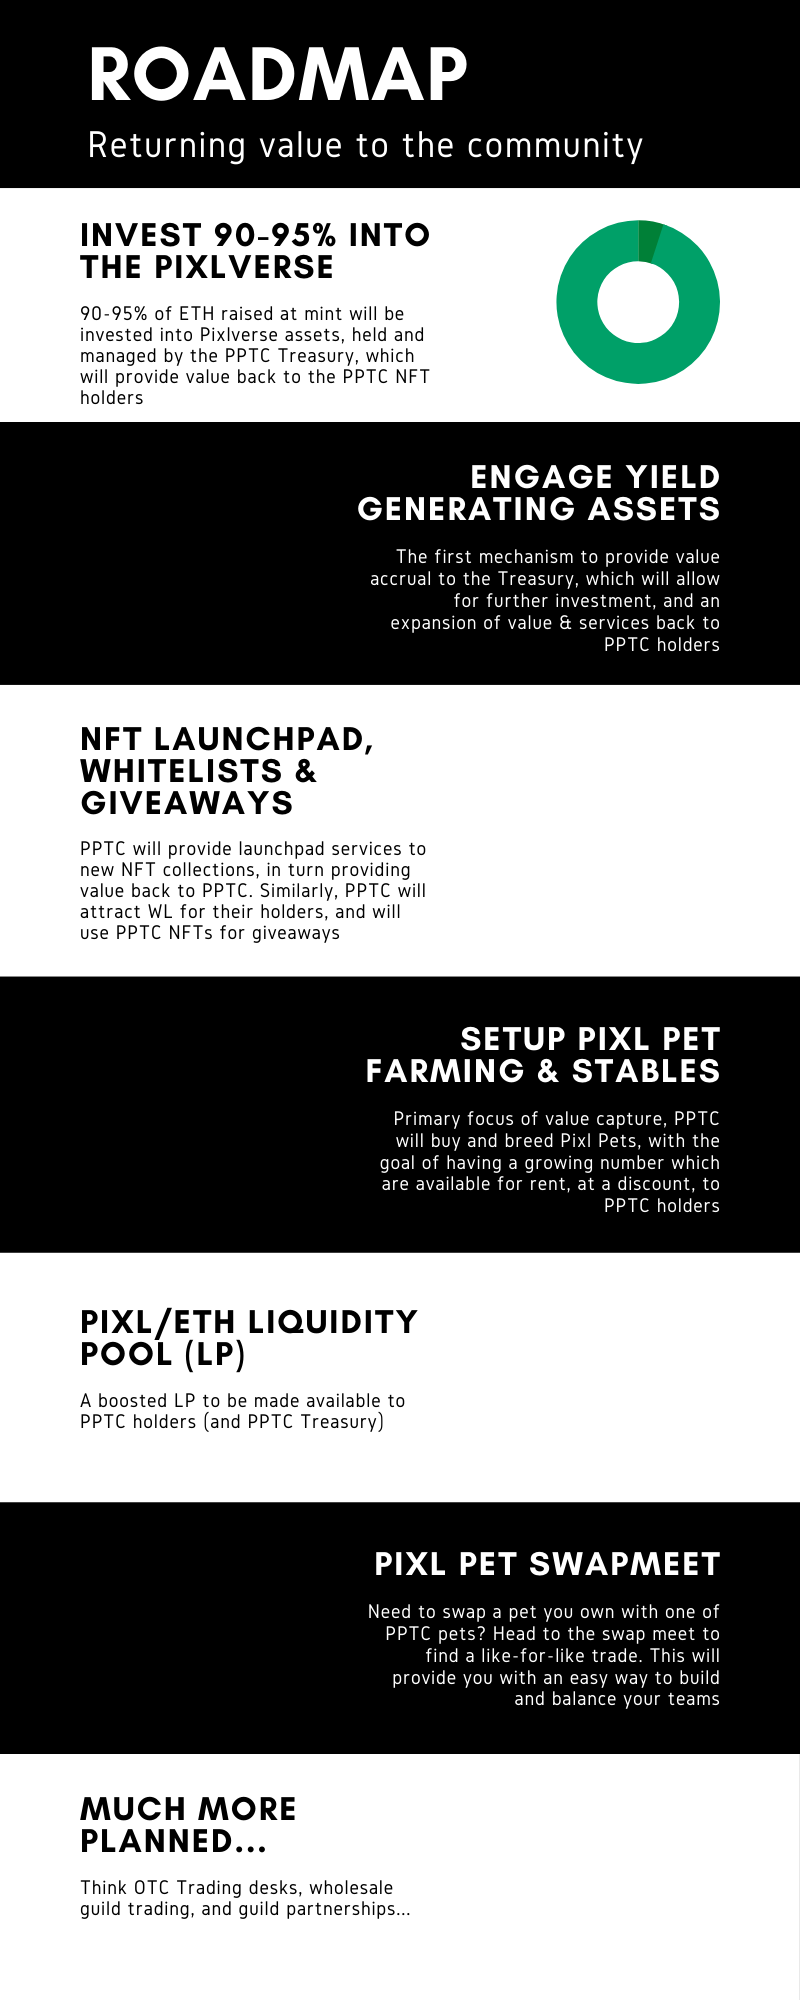
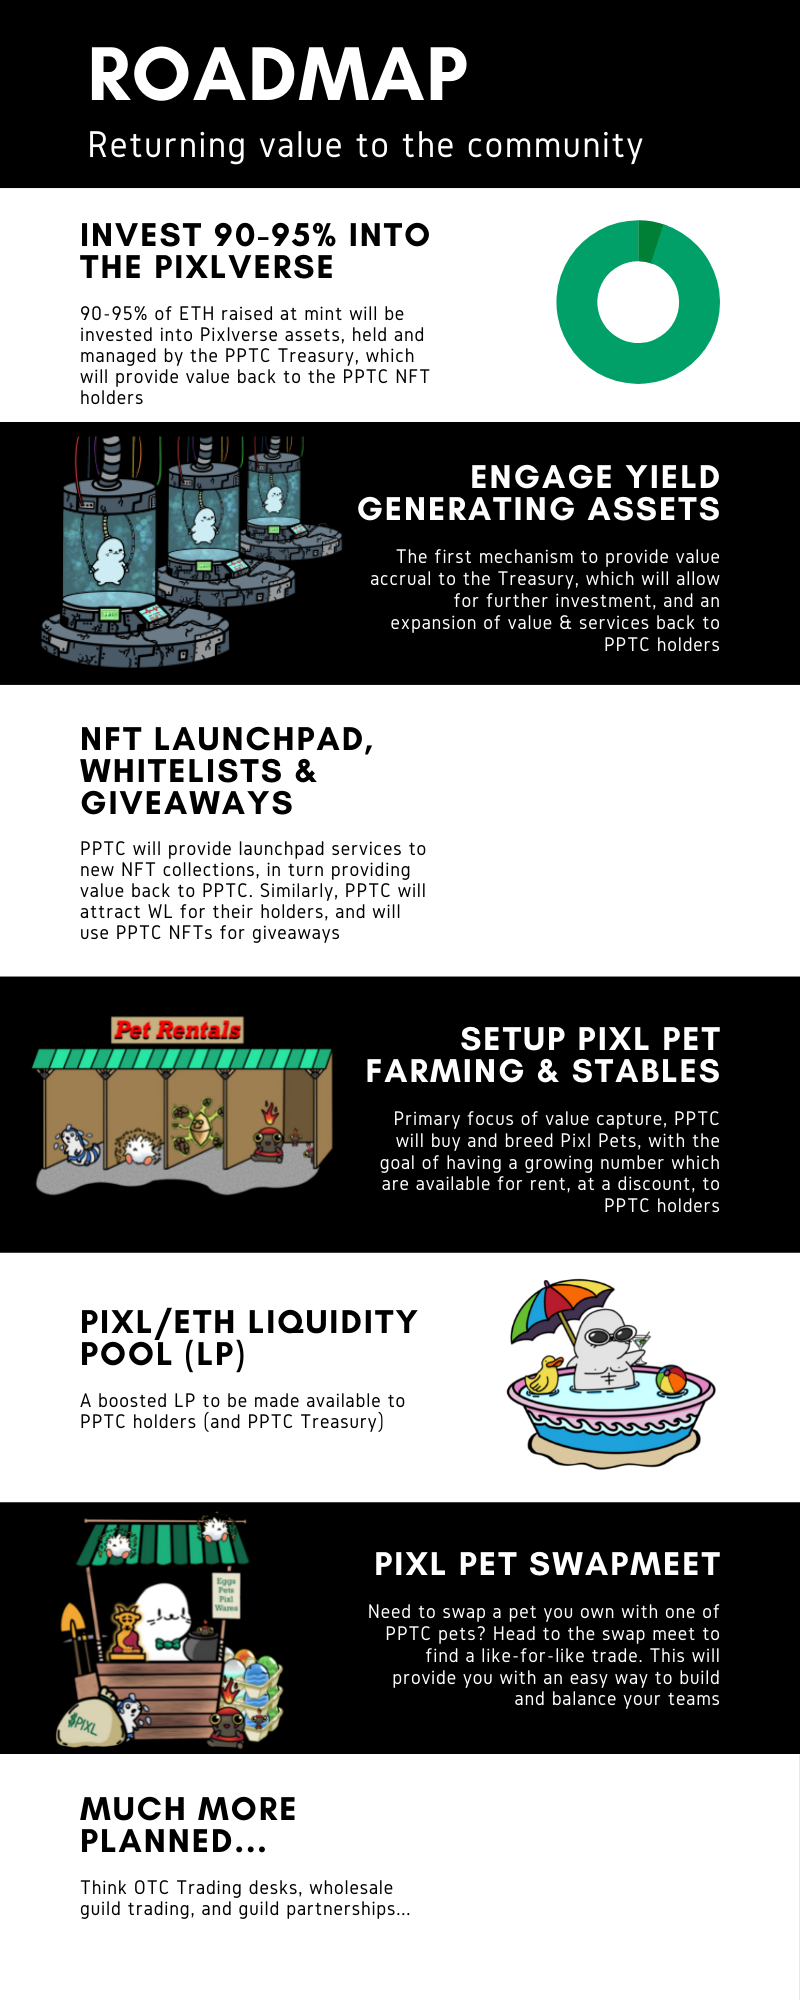
roadmap updated, new class of div StyledBig

diff --git a/src/App.js b/src/App.js
@@ -28,6 +28,22 @@ export const StyledButton = styled.button`
   }
 `;
 
+export const StyledBig = styled.img`
+  width: 350px;
+  @media (min-width: 767px) {
+    width: 650px;
+  }
+  @media (min-width: 600px) {
+    width: 600px;
+  }
+  @media (min-width: 400px) {
+    width: 350px;
+  }
+  transition: width 0.5s;
+  transition: height 0.5s;
+`;
+
+
 export const StyledRoundButton = styled.button`
   padding: 10px;
   border-radius: 100%;
@@ -437,7 +453,7 @@ function App() {
         style={{ padding: 2, backgroundColor: "var(--primary)" }}
         // image={CONFIG.SHOW_BACKGROUND ? "/config/images/bg.png" : null}
       >
-        <StyledLogo
+        <StyledBig
          alt={"logo"} src={"/config/images/roadmap.png"
          } />
         <s.SpacerSmall />
@@ -537,6 +553,7 @@ Many others, you’ll have to wait and see
 
                 </s.TextDescription>
                 <s.SpacerSmall />
+                <StyledBig alt={"logo"} src={"/config/images/vision1080.png"} />
                 <StyledImg
               alt={"example"}
               src={"/config/images/eggs.png"}
